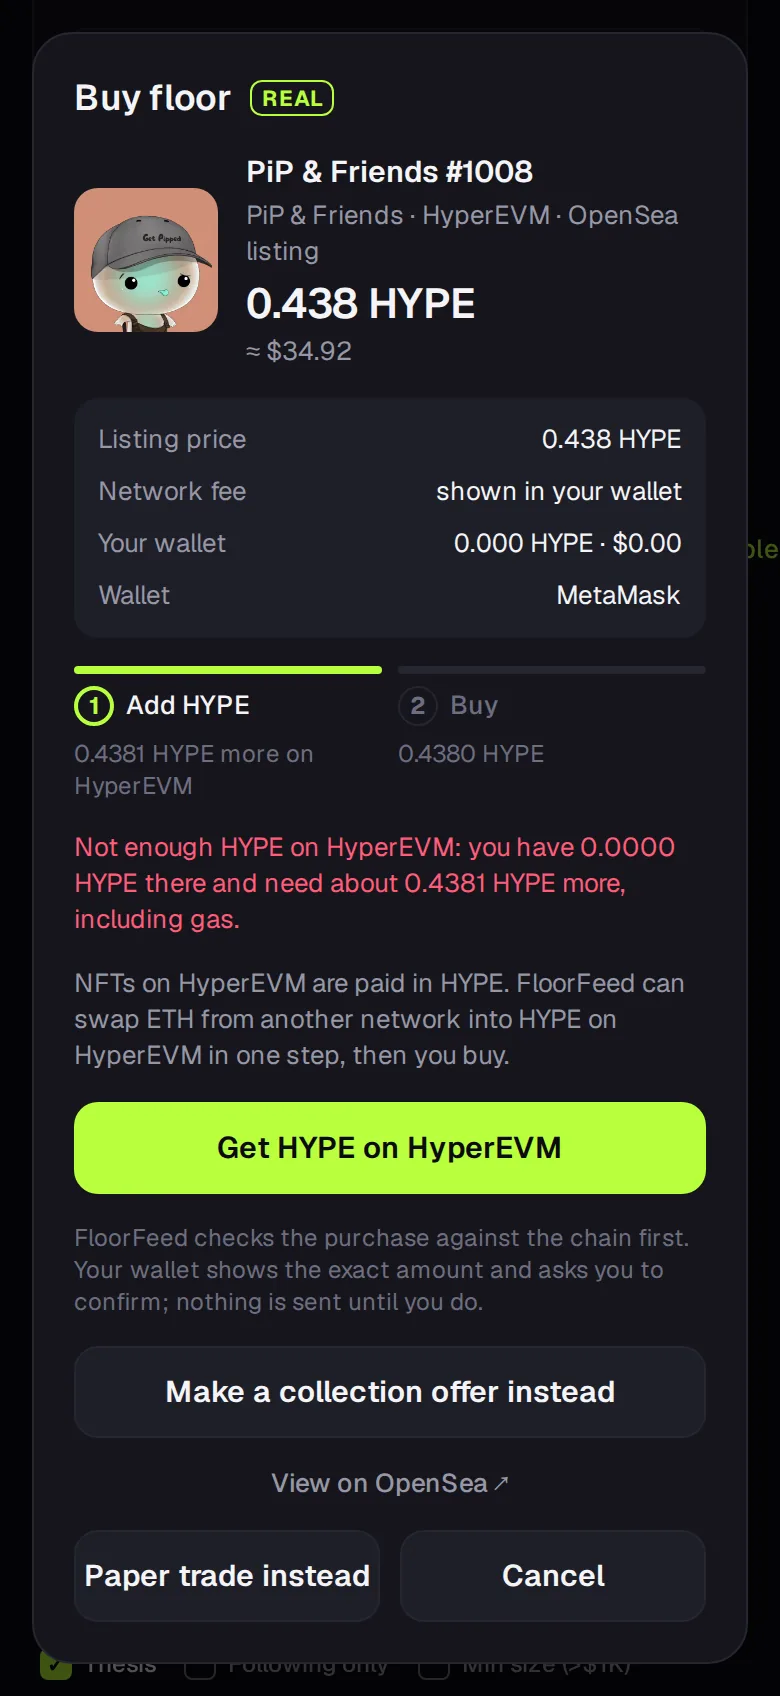
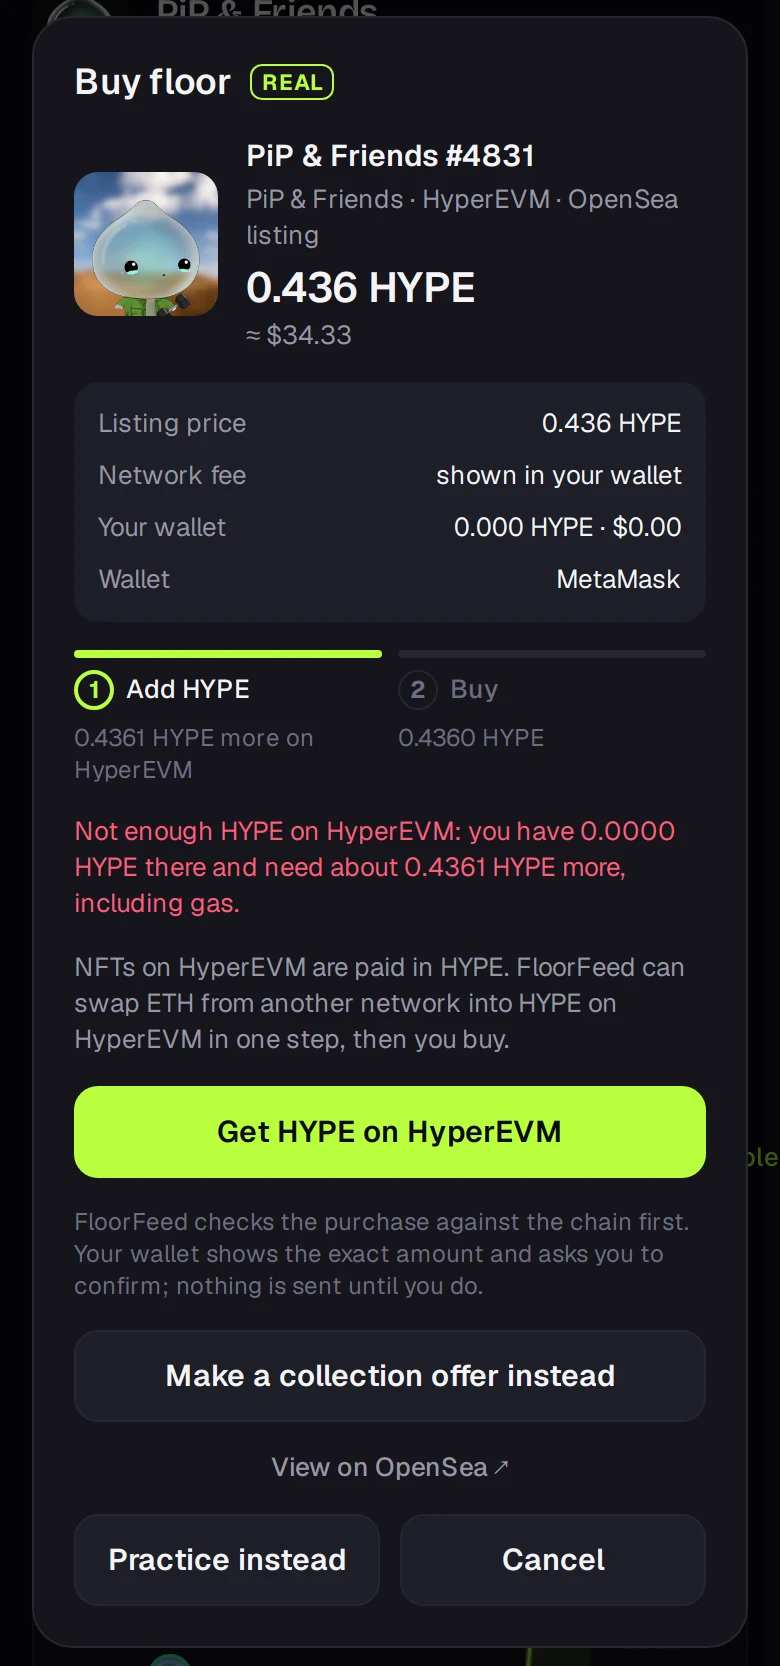
Screenshots and teasers: Paper → Practice
- Guide: new practice-copy-card / practice-copied / practice-portfolio shots
  (current buy bar, break-even lines, Top practice traders card) and a
  real-buy-short shot with "Practice instead"; alt texts updated.
- X images portfolio/discover/chart-pro/chart/mobile/cluster retaken in the
  current UI (Practice buy bars, no Paper buttons).
- Teasers that described paper mode now say practice; ids unchanged.
- Buy sheets: "Practice trade instead" → "Practice instead", centered, so it
  no longer wraps on phones.

diff --git a/server/src/teasers.ts b/server/src/teasers.ts
@@ -69,11 +69,11 @@ export const TEASERS: Teaser[] = [
   { id: "live-flashes",
     text: "FloorFeed's lists are live now. Floors flash green or red as they move, and a collection pulses when a sale lands.\n\nYou can watch a market wake up." },
   { id: "guide-v2",
-    text: `The FloorFeed guide is rewritten in three parts: Basics, Paper and Real.\n\nThe Real part walks through wallets, funding, buying, bridging between chains, selling and minting, with screenshots.\n\n${SITE}/how-it-works` },
+    text: `The FloorFeed guide is rewritten in three parts: Basics, Practice and Real.\n\nThe Real part walks through wallets, funding, buying, bridging between chains, selling and minting, with screenshots.\n\n${SITE}/how-it-works` },
   { id: "paper-honest",
-    text: "Paper trading that flatters you teaches you nothing.\n\nFloorFeed's paper mode uses live floors and real fees, and takes 3% off every paper sell for the slippage you'd hit in real life. Practice there, then switch to Real." },
+    text: "Practice trading that flatters you teaches you nothing.\n\nFloorFeed's practice mode uses live floors and real fees, and takes 3% off every practice sell for the slippage you'd hit in real life. Practice there, then switch to Real." },
   { id: "copy-vs-see",
-    text: "On FloorFeed's feed, buy cards have a Copy button: buy the same collection's floor in one tap, on paper or for real.\n\nFlip cards show what someone made or lost, so they link to the collection instead. Look before you follow." },
+    text: "On FloorFeed's feed, buy cards end in a Buy floor bar: the same collection's floor in one tap, in practice or for real.\n\nFlip cards show what someone made or lost, so they link to the collection instead. Look before you follow." },
 
   // --- Batch 5 (2026-10-15): sell, bridge, mint, Robinhood Chain, money view, activity, USD; a few "coming" ---
   { id: "full-loop",
@@ -167,7 +167,7 @@ export const TEASERS: Teaser[] = [
   { id: "export-key",
     text: "Signed up with email? You still own the wallet.\n\nFloorFeed lets you export its private key into Phantom, MetaMask or anything else, whenever you want." },
   { id: "how-it-works",
-    text: `New to on-chain NFT trading? FloorFeed has a plain-English guide: what the badges mean, how P&L is counted, paper vs real, alerts.\n\n${SITE}/how-it-works` },
+    text: `New to on-chain NFT trading? FloorFeed has a plain-English guide: what the badges mean, how P&L is counted, practice vs real, alerts.\n\n${SITE}/how-it-works` },
   { id: "suggested-follows",
     text: "Don't know who to follow yet?\n\nFloorFeed suggests the top flippers of the last 30 days on Solana and Ethereum. One tap to follow, one more to turn on alerts." },
   { id: "proven-filter",
@@ -203,9 +203,9 @@ export const TEASERS: Teaser[] = [
   { id: "alerts-flip", image: "alerts.jpg",
     text: "A FloorFeed alert on a sale doesn't just say \"sold.\"\n\nIt says whether the wallet you follow flipped it for a profit or took a loss, and by how much, after fees." },
   { id: "paper-fees", image: "portfolio.jpg",
-    text: "Paper trading on FloorFeed now pays fees too.\n\nTaker fee and royalties on the way in, fees on the way out, just like a real flip. If your paper P&L is green, it would have been green for real." },
+    text: "Practice trading on FloorFeed pays fees too.\n\nTaker fee and royalties on the way in, fees on the way out, just like a real flip. If your practice P&L is green, it would have been green for real." },
   { id: "real-vs-paper", image: "portfolio.jpg",
-    text: "Portfolio has two accounts behind one switch.\n\nPaper: practice with fake money, no wallet needed.\nReal: your actual NFTs and balance, valued at floor.\n\nNever mixed, always labeled." },
+    text: "Portfolio has two accounts behind one switch.\n\nPractice: simulated money at live prices, no wallet needed.\nReal: your actual NFTs and balance, valued at floor.\n\nNever mixed, always labeled." },
   { id: "deposit-eth",
     text: "Deposit works for ETH too.\n\nBuy with card through MoonPay or send from any exchange to your FloorFeed wallet's address. The balance updates the moment it lands." },
   { id: "trait-share", image: "item.jpg",
@@ -238,7 +238,7 @@ export const TEASERS: Teaser[] = [
     text: "Abstract, Ink and Arbitrum NFTs are on FloorFeed: live sales, floor charts, the wallets flipping them, and in-app buys from OpenSea listings." },
   // --- Earlier batches ---
   { id: "what", image: "feed.jpg",
-    text: `FloorFeed in one line: a social feed of Solana NFT trades from wallets with a track record.\n\nSee who's buying, how good they are, and copy them on paper first.\n\n${SITE}` },
+    text: `FloorFeed in one line: a social feed of Solana NFT trades from wallets with a track record.\n\nSee who's buying, how good they are, and copy them in practice first.\n\n${SITE}` },
   { id: "clusters", image: "cluster.jpg",
     text: "When 3+ wallets buy the same Solana collection within 6 hours, FloorFeed flags it as a cluster.\n\nNo KOL shill, no hype thread. Just wallets converging on-chain." },
   { id: "deposit", image: "deposit.jpg",
@@ -254,9 +254,9 @@ export const TEASERS: Teaser[] = [
   { id: "charts", image: "chart.jpg",
     text: "Rebuilt our collection charts on TradingView Lightweight Charts.\n\nRolling median price, every sale as a dot, volume underneath, floor line on top. 24H, 7D, 30D." },
   { id: "paper", image: "portfolio.jpg",
-    text: "Think you can pick 'em? Prove it on paper first.\n\nEvery buy on FloorFeed has a one-tap paper buy at floor. Track your P&L against the wallets you copy. Zero SOL at risk." },
+    text: "Think you can pick 'em? Prove it in practice first.\n\nEvery buy on FloorFeed has a one-tap Buy floor in practice mode. Track your P&L against the wallets you copy, and climb the weekly Top practice traders board. Zero SOL at risk." },
   { id: "copy",
-    text: "See a proven flipper buy.\nTap Copy.\nYou're in the same collection at floor, on paper, in one tap.\n\nThat's the whole loop. Follow the wallets that win, skip the ones that don't." },
+    text: "See a proven flipper buy.\nTap Buy floor.\nYou're in the same collection at floor, in practice, in one tap.\n\nThat's the whole loop. Follow the wallets that win, skip the ones that don't." },
   { id: "ai-takes", image: "feed.jpg",
     text: "Notable buys on FloorFeed come with an AI take: how good is this wallet, how does the price compare to floor and the 24h average, what is volume saying.\n\nTwo sentences. No moon talk." },
   { id: "leaderboard", image: "leaders.jpg",
@@ -272,9 +272,9 @@ export const TEASERS: Teaser[] = [
   { id: "sign-in",
     text: "No seed phrase needed to start. Sign in to FloorFeed with email or Google and you get an embedded Solana wallet.\n\nAlready on Phantom? Connect it instead." },
   { id: "real-portfolio", image: "portfolio.jpg",
-    text: "Connect a wallet and FloorFeed reads your real NFT holdings: floor value, estimated bid, and cost basis from your on-chain buys.\n\nOne switch flips between paper and real." },
+    text: "Connect a wallet and FloorFeed reads your real NFT holdings: floor value, estimated bid, and cost basis from your on-chain buys.\n\nOne switch flips between practice and real." },
   { id: "mode-switch",
-    text: "Paper mode or Real mode, one switch.\n\nPurple buttons = practice.\nLime buttons = your actual wallet.\n\nHard to mix them up, by design." },
+    text: "Practice or Real, one switch.\n\nPurple buttons = practice.\nLime buttons = your actual wallet.\n\nHard to mix them up, by design." },
   { id: "mobile", image: "mobile.jpg",
     text: `Built mobile-first. The feed, charts and leaderboard all work in your phone's browser today, no install.\n\n${SITE}` },
   { id: "ranking",
@@ -292,7 +292,7 @@ export const TEASERS: Teaser[] = [
   { id: "cluster-weights", image: "cluster.jpg",
     text: "3 proven flippers buying the same collection = signal.\n3 wallets with no history = noise.\n\nFloorFeed weights every cluster by who's in it. Proven traders count for a lot, new wallets for little, market makers for nothing." },
   { id: "reset",
-    text: "Blew up your paper portfolio? There's a reset button now.\n\nWipe your paper P&L and start fresh. Practice is supposed to be cheap." },
+    text: "Blew up your practice portfolio? There's a reset button.\n\nWipe your practice P&L and start fresh. Practice is supposed to be cheap." },
   { id: "latest",
     text: "Top tab = ranked signal.\nLatest tab = the raw firehose: every buy, flip and sweep across the Solana collections we track, as it lands.\nWins tab = profitable flips only.\n\nPick your speed." },
   { id: "history", image: "chart.jpg",
@@ -322,7 +322,7 @@ export const TEASERS: Teaser[] = [
   { id: "proven-count", image: "cluster.jpg",
     text: "Cluster cards say how many of the buyers are proven flippers.\n\n6 wallets with 6 proven flippers is a very different signal from 6 wallets with none. FloorFeed shows you which one you're looking at." },
   { id: "cluster-copy", image: "cluster.jpg",
-    text: "See a cluster forming? Every cluster card has a one-tap Copy button: paper buy that collection's floor and find out if the smart wallets were right." },
+    text: "See a cluster forming? Every cluster card has a one-tap Buy floor: buy that collection's floor in practice and find out if the smart wallets were right." },
   { id: "flip-details", image: "wins.jpg",
     text: "Every flip card on FloorFeed shows buy price, sell price, % gain, how long it was held, and who it was sold to.\n\nNo screenshots of P&L cards. Just the on-chain record." },
   { id: "badges", image: "wins.jpg",
@@ -352,9 +352,9 @@ export const TEASERS: Teaser[] = [
   { id: "listings", image: "collection.jpg",
     text: "Every Solana collection page lists the cheapest live listings with their rarity rank.\n\nSpot a rare one sitting near floor before someone else does." },
   { id: "paper-floor", image: "chart.jpg",
-    text: "Every collection page has a Paper buy floor button.\n\nThink a collection is about to run? Put it on paper today and check back next week." },
+    text: "Every collection page has a trade box with a practice Buy floor.\n\nThink a collection is about to run? Buy it in practice today and check back next week." },
   { id: "sync",
-    text: "Signed in on your laptop, checking on your phone?\n\nSign in to FloorFeed with email or Google and your follows and paper trades sync across devices." },
+    text: "Signed in on your laptop, checking on your phone?\n\nSign in to FloorFeed with email or Google and your follows and practice trades sync across devices." },
   { id: "no-keys",
     text: "FloorFeed never sees your keys or seed phrase.\n\nConnected wallets ask before signing anything, and the built-in wallet's key is secured by Privy, not by us." },
   { id: "wallets-supported",
@@ -374,5 +374,5 @@ export const TEASERS: Teaser[] = [
   { id: "why",
     text: "Why we built FloorFeed: NFT alpha lives in screenshots, group chats and \"trust me\" threads.\n\nThe real record is on-chain. We just made it readable: who bought, how good they are, and how it played out." },
   { id: "first-minute",
-    text: "Your first minute on FloorFeed:\n1. Open the Top feed\n2. Tap a trader with a TOP FLIPPER badge\n3. Check their win rate and hold time\n4. Follow, or paper copy their last buy\n\nNo sign-up needed to start." },
+    text: "Your first minute on FloorFeed:\n1. Open the Top feed\n2. Tap a trader with a TOP FLIPPER badge\n3. Check their win rate and hold time\n4. Follow, or copy their last buy in practice\n\nNo sign-up needed to start." },
 ];

diff --git a/server/src/guide.ts b/server/src/guide.ts
@@ -124,8 +124,8 @@ export const GUIDE: GuideSection[] = [
         "Open Portfolio to watch the position. Open positions are marked at what you'd get selling now.",
         "Tap Sell when you're done. The profit or loss is locked in, after fees.",
       ] },
-      img("paper-copy-card", "A Cluster card on the Buys tab: 10 wallets bought Squink in 4 hours, ending in a purple Buy floor button tagged PAPER at 0.0046 ETH ($11), with Offer beside it", 780, 856),
-      img("paper-copied", "The same card after tapping Buy floor: a line under the button reads Bought on paper at 0.0046 ETH. See Portfolio.", 780, 204,
+      img("practice-copy-card", "A Cluster card on the Buys tab: 3 wallets bought Primates in 1 hour, including 2 proven flippers, ending in a purple-bordered buy bar: 0.247 SOL ($26), marked Practice, with a purple Buy floor button", 780, 846),
+      img("practice-copied", "The same card after tapping Buy floor: a line under the bar reads Bought in practice at 0.247 SOL. See Portfolio.", 780, 214,
         "One tap: the fill price shows under the button."),
     ],
   },
@@ -141,8 +141,8 @@ export const GUIDE: GuideSection[] = [
         { term: "Selling", text: `Sales go into the best bid, which sits below the floor, so a practice sale fills at the floor minus ${haircut}%, and the seller's fees come off that.` },
         { term: "Currencies", text: "Positions stay in the collection's own coin (SOL, ETH, HYPE, RON, APE or MON) and are totalled per coin. Collections priced in anything else are browse-only in practice." },
       ] },
-      img("paper-portfolio", "Paper portfolio: paper profit and loss after fees −0.0010 ETH (about −$2.54), with open positions in RobinPunks and Squink, each with its value in dollars and a Sell button", 780, 892),
-      { tip: "That small red number right after a buy is normal: fees, plus the gap between the floor and the bid. A practice position has to beat it to show a profit, just like a real one." },
+      img("practice-portfolio", "Practice portfolio: practice profit and loss after fees, −0.242 SOL and −0.1009 ETH (about −$268 in total); the Top practice traders card (#1 of 5 this season); then open positions in Primates, Cambria Charters and Pudgy Penguins, each with its value in dollars, a Sell button, and how far the floor has to rise to break even", 780, 1726),
+      { tip: "That small red number right after a buy is normal: fees, plus the gap between the floor and the bid. A practice position has to beat it to show a profit, just like a real one. Each open position shows how far the floor has to rise to break even, with a bar that fills as it gets there." },
       { p: "Reset (on the Positions header) clears every practice position, open and closed, for a fresh start. Practice trading is free and stays free." },
     ],
   },
@@ -201,7 +201,7 @@ export const GUIDE: GuideSection[] = [
         "The buy appears in Activity and is followed until it confirms. The NFT then shows up under Holdings.",
       ] },
       { p: "If you're short on that network, the sheet turns into two steps, Add and Buy, says how much more you need, and offers to move it for you. On networks with their own coin (HYPE, APE, RON, MON) it swaps your ETH or SOL into that coin on the way:" },
-      img("real-buy-short", "Buy floor sheet for PiP & Friends #1008 at 0.438 HYPE ($34.92) on HyperEVM. Steps: 1 Add HYPE, 2 Buy. It says: Not enough HYPE on HyperEVM, and offers Get HYPE on HyperEVM, which swaps ETH from another network into HYPE", 780, 1696),
+      img("real-buy-short", "Buy floor sheet for PiP & Friends #4831 at 0.436 HYPE ($34.33) on HyperEVM. Steps: 1 Add HYPE, 2 Buy. It says: Not enough HYPE on HyperEVM, and offers Get HYPE on HyperEVM, which swaps ETH from another network into HYPE. At the bottom: Practice instead and Cancel", 780, 1666),
       { p: "On Solana, the sheet shows the cheapest Magic Eden listing, what it costs and whether your SOL covers it, then the purchase finishes on Magic Eden. If you're short, Deposit opens with the shortfall filled in." },
       { tip: "Listings priced in wrapped coins (WETH and similar) need an extra approval, so FloorFeed only buys listings priced in the network's own coin. Real buys are one NFT at a time; sweeps are practice-only for now." },
     ],

diff --git a/app/src/components/buy-sheet.tsx b/app/src/components/buy-sheet.tsx
@@ -19,7 +19,7 @@ export function BuySheet({ symbol, open, onClose, onPaper }: {
   symbol: string;
   open: boolean;
   onClose: () => void;
-  onPaper?: () => void; // "Practice trade instead"
+  onPaper?: () => void; // "Practice instead"
 }) {
   const withUsd = useWithUsd();
   const w = useWallet();
@@ -100,7 +100,7 @@ export function BuySheet({ symbol, open, onClose, onPaper }: {
           <View style={s.footer}>
             {onPaper && (
               <Pressable accessibilityRole="button" onPress={() => { onClose(); onPaper(); }} style={[s.secondary, { flex: 1 }]}>
-                <Text style={s.secondaryTxt}>Practice trade instead</Text>
+                <Text style={s.secondaryTxt}>Practice instead</Text>
               </Pressable>
             )}
             <Pressable accessibilityRole="button" onPress={onClose} style={[s.secondary, { flex: 1 }]}>
@@ -140,6 +140,6 @@ const s = StyleSheet.create({
   primary: { backgroundColor: C.accent, borderRadius: 12, paddingVertical: 13, alignItems: 'center' },
   primaryTxt: { ...T.button, color: C.accentInk },
   footer: { flexDirection: 'row', gap: 10 },
-  secondary: { borderRadius: 12, paddingVertical: 12, alignItems: 'center', borderWidth: 1, borderColor: C.border, backgroundColor: C.cardHi },
-  secondaryTxt: { ...T.button, color: C.text },
+  secondary: { borderRadius: 12, paddingVertical: 12, paddingHorizontal: 8, alignItems: 'center', borderWidth: 1, borderColor: C.border, backgroundColor: C.cardHi },
+  secondaryTxt: { ...T.button, color: C.text, textAlign: 'center' },
 });

diff --git a/app/src/components/evm-buy-sheet.tsx b/app/src/components/evm-buy-sheet.tsx
@@ -242,7 +242,7 @@ export function EvmBuySheet({ symbol, id, open, onClose, onPaper }: {
           <View style={s.footer}>
             {onPaper && step.kind !== 'sent' && (
               <Pressable accessibilityRole="button" onPress={() => { close(); onPaper(); }} style={[s.secondary, { flex: 1 }]}>
-                <Text style={s.secondaryTxt}>Practice trade instead</Text>
+                <Text style={s.secondaryTxt}>Practice instead</Text>
               </Pressable>
             )}
             <Pressable accessibilityRole="button" onPress={close} style={[s.secondary, { flex: 1 }]}>
@@ -295,8 +295,8 @@ const s = StyleSheet.create({
   primary: { backgroundColor: C.accent, borderRadius: 12, paddingVertical: 13, alignItems: 'center' },
   primaryTxt: { ...T.button, color: C.accentInk },
   footer: { flexDirection: 'row', gap: 10 },
-  secondary: { borderRadius: 12, paddingVertical: 12, alignItems: 'center', borderWidth: 1, borderColor: C.border, backgroundColor: C.cardHi },
-  secondaryTxt: { ...T.button, color: C.text },
+  secondary: { borderRadius: 12, paddingVertical: 12, paddingHorizontal: 8, alignItems: 'center', borderWidth: 1, borderColor: C.border, backgroundColor: C.cardHi },
+  secondaryTxt: { ...T.button, color: C.text, textAlign: 'center' },
   option: { flexDirection: 'row', alignItems: 'center', gap: 12, padding: 12, borderRadius: 12, borderWidth: 1, borderColor: C.border, backgroundColor: C.cardHi },
   icon: { width: 28, height: 28, borderRadius: 6 },
   optionTxt: { ...T.bodyStrong, flex: 1 },
